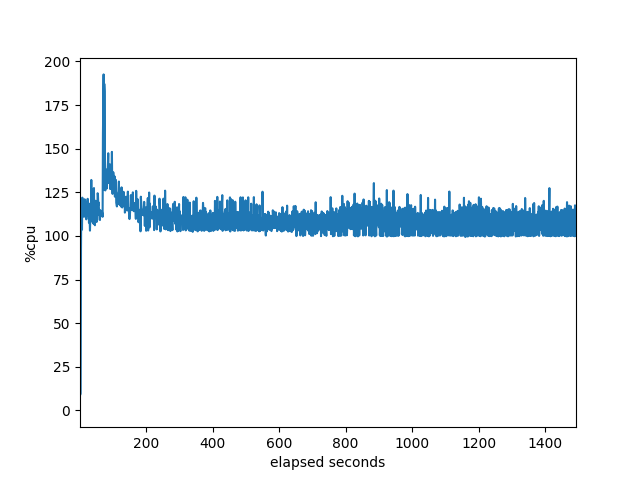
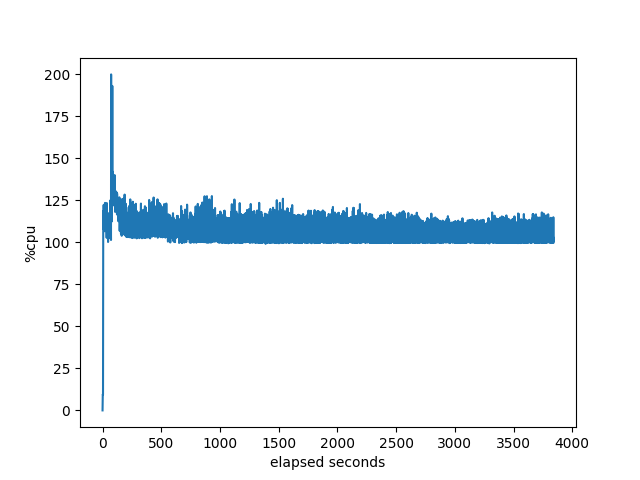
added coherent section comparing bench graphs for each stack

diff --git a/_drafts/2021-10-101-bgp-perf5-1000-internet-neighbors.md b/_drafts/2021-10-101-bgp-perf5-1000-internet-neighbors.md
@@ -36,29 +36,96 @@ Lets' look at the performance of the stacks. First, BIRD, FRRouting and RustyBGP
 
 As long as it doesn't run out of memory, each of these platforms can do reasonable tests. I tried FRR at 200 neighbors and the AMD ran out of memory.
 
-# FRR
- 
- I've added some graphs to show how things go over time with any give test. FRR at 100 neighbors.
+## Detailed Baseline Graphs
+ I've added some graphs to show how things go over time with any give test.
 
-The number of prefixes received at the monitor.
+### Prefixes received at the monitor
+
+FRR
 
 ![prefixes received at monitor](/assets/images/2021-10-bgp-5/frr_c_bgpdump2__800000_100_mon_received.png)
 
-This graph shows the number of neighbors that the target has received all it's prefixes:
+BIRD 
+
+![prefixes received at monitor](/assets/images/2021-10-bgp-5/bird_bgpdump2_800000_100_mon_received.png)
+
+RustyBGP
+
+![prefixes received at monitor](/assets/images/2021-10-bgp-5/rustybgp_bgpdump2_800000_100_mon_received.png)
+
+RustyBGP curve looks a lot different. Don't know why.
+
+
+### Neighbors that have sent the full table
+
+FRRouting
 
 ![neighbors full received routes](/assets/images/2021-10-bgp-5/frr_c_bgpdump2__800000_100_neighbors.png)
 
-The CPU utilization of FRR
+BIRD
+
+![neighbors full received routes](/assets/images/2021-10-bgp-5/bird_bgpdump2_800000_100_neighbors.png)
+
+RusytBGP
+
+![neighbors full received routes](/assets/images/2021-10-bgp-5/rustybgp_bgpdump2_800000_100_neighbors.png)
+
+
+RustyBGP looks different again. It's amazing that it can receive full routes for some neighbors within about 10 seconds. 
+
+
+### Target CPU Utilization
+
+FRR
 
 ![cpu](/assets/images/2021-10-bgp-5/frr_c_bgpdump2__800000_100_cpu.png)
 
+BIRD
 
-memory used by FRR
+![cpu](/assets/images/2021-10-bgp-5/bird_bgpdump2_800000_100_cpu.png)
+
+RustyBGP
+
+![cpu](/assets/images/2021-10-bgp-5/rustybgp_bgpdump2_800000_100_cpu.png)
+
+
+
+### Memory used by target process
+
+FRR
+
 ![memory used](/assets/images/2021-10-bgp-5/frr_c_bgpdump2__800000_100_mem_used.png)
 
-The % idle of the machine. This shows that there are plenty of CPU resources available.
+BIRD
+
+![memory used](/assets/images/2021-10-bgp-5/bird_bgpdump2_800000_100_mem_used.png)
+RustyBGP
+
+![memory used](/assets/images/2021-10-bgp-5/rustybgp_bgpdump2_800000_100_mem_used.png)
+
+Each of those looks different, don't know what it means.
+
+### % idle of the machine.
+
+FRR
 
 ![% idle of machine](/assets/images/2021-10-bgp-5/frr_c_bgpdump2__800000_100_machine_idle.png)
+
+BIRD
+
+![% idle of machine](/assets/images/2021-10-bgp-5/bird_bgpdump2_800000_100_machine_idle.png)
+
+RustyBGP
+
+![% idle of machine](/assets/images/2021-10-bgp-5/rustybgp_bgpdump2_800000_100_machine_idle.png)
+
+Some things to explain here. Notice the flat line at the beginning of each of these. That's a consequence of the way that bgperf is currently monitoring the host information. So we only have the last data point right before all the testers (bgpdump2) are fully running. It's a bug in the tester. Anyway, it does show, though, that when bgpdump first starts up it uses a lot of CPU resources, but after inital loading it barely uses anything. Even on the host with the least resources (AMD), there is plenty of CPU available on the host for the majority of the test. Except for RustyBGP, which uses most of the CPU.
+
+
+
+# 1000 neighbors ?
+## FRR
+
 
 
 At 150 neighbors, FRR does not finish ever. Several problems. Some of the neighbors never send any prefixes successfully and the total prefixes received by the monitor doesn't seem to ever get to the amount required. I ran one test for over 6 hours and it never finished.
@@ -99,26 +166,29 @@ The % idle of the machine. This shows that there are plenty of CPU resources ava
 
 ![% idle of machine](/assets/images/2021-10-bgp-5/frr_c_bgpdump2_800000_150_machine_idle.png)
 
-# RustyBGP
 
-RustyBGP finishes 200 neighbors just fine, but fails at 250. bgperf, every second, gets received prefix counts from the target. For rustybgp with 200 neighbors it stops returning that responding to the data request, and then bgperf just goes forever because it needs that data to know if anything has finished. I'm not sure what's going on with rustybgp, but I noticed this in previous posts that I can make it so that it doesn't respond to the management requestss.
+# BIRD
+BIRD succeeds at 200 neighbors, and fails by 225.  It does something similar to what FRR does in which it doesn't accept prefixes for every 
 
-![prefixes received at monitor](/assets/images/2021-10-bgp-5/rustybgp_bgpdump2_800000_200_mon_received.png)
 
-The number of neighbors that the target has received all it's prefixes:
 
-![neighbors full received routes](/assets/images/2021-10-bgp-5/rustybgp_bgpdump2_800000_200_neighbors.png)
+## RustyBGP
 
-The CPU utilization of the target
 
-![cpu](/assets/images/2021-10-bgp-5/rustybgp_bgpdump2_800000_200_cpu.png)
 
 
 memory used by target
-![memory used](/assets/images/2021-10-bgp-5/rustybgp_bgpdump2_800000_200_mem_used.png)
+![memory used](/assets/images/2021-10-bgp-5/bird_bgpdump2_800000_100_mem_used.png)
 
 The % idle of the machine. This shows that there are plenty of CPU resources available.
 
-![% idle of machine](/assets/images/2021-10-bgp-5/rustybgp_bgpdump2_800000_200_machine_idle.png)
-# BIRD
-BIRD succeeds at 200 neighbors, and fails by 225.  It does something similar to what FRR does in which it doesn't accept prefixes for every 
+![% idle of machine](/assets/images/2021-10-bgp-5/bird_bgpdump2_800000_100_machine_idle.png)
+
+
+
+# Conclusion
+Yes, it's possible to measure these stacks with BGPerf at 1000 neighbors of internet routes. However, only RustyBGP can can near that level. And it requires a lot of memory.
+
+FRR breaks first, at about 150 neighbors. Next is BIRD at between 200 and 250 neighbors.
+
+We also added new graphs to see what these stacks are doing 
